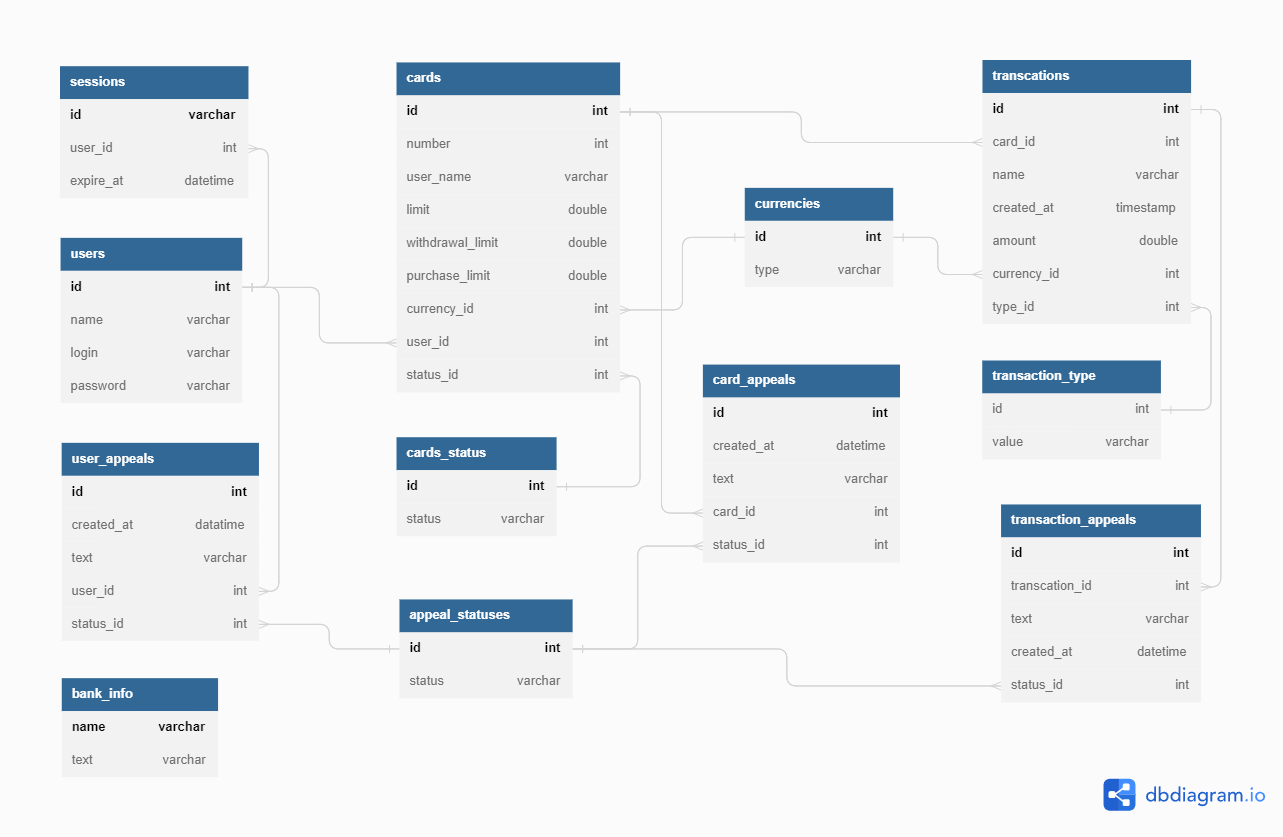
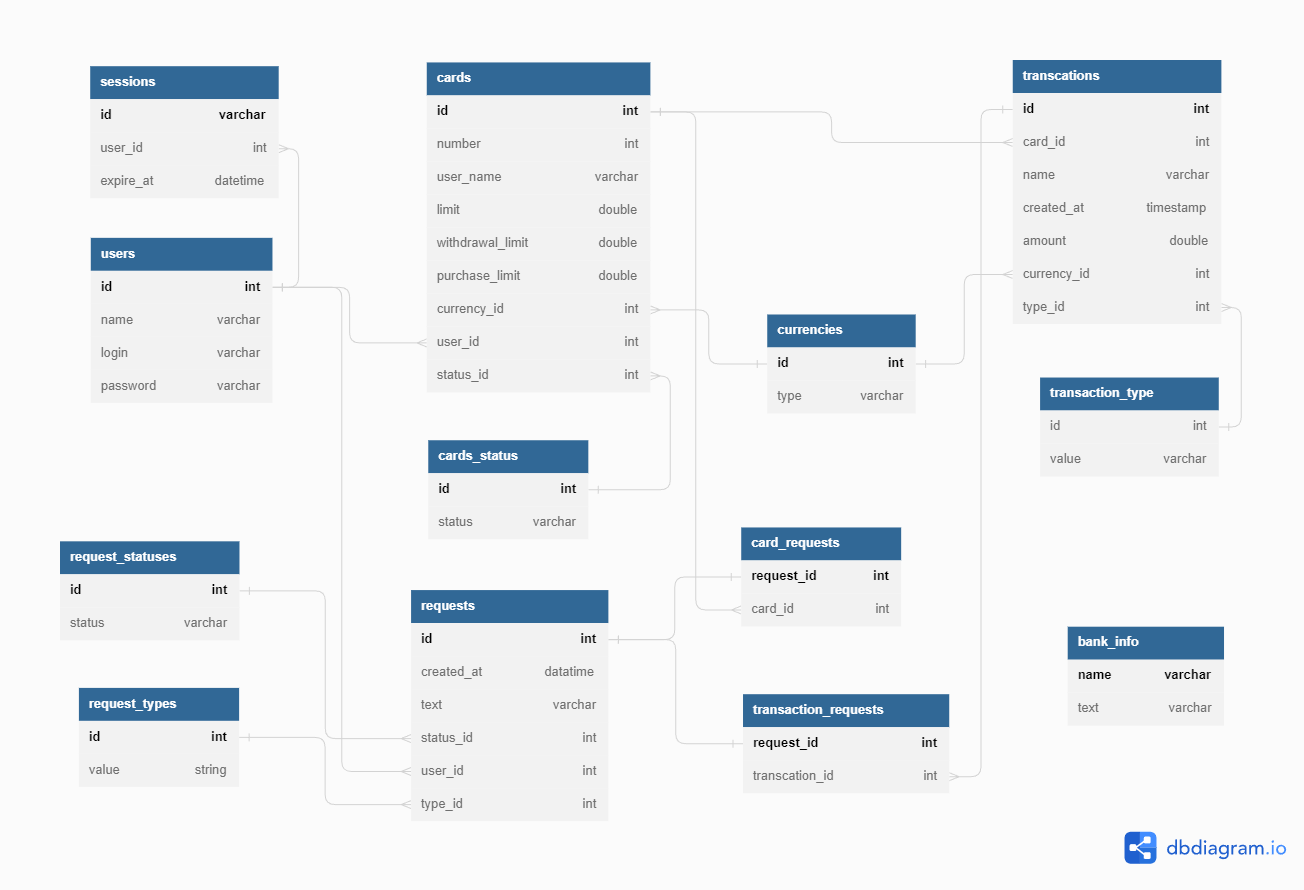
Update db

diff --git a/README.md b/README.md
@@ -20,14 +20,12 @@ https://www.dropbox.com/s/22ps1w1j5uou6rp/sber_corp_proto_v1.1.pdf?dl=0
 
 ![db](img/main_db.png)
 
-Было решено вынести обращения в отдельные сущности:
-- `card_appeals`: обращения по картам;
-- `transcation_appeals`: обращения по транзакциям;
-- `user_appeals`: обращения поступаемые от пользователя и не имеющие точной привязки к какому-то типу обращений.
+Было решено для сущности обращений реализовать мастер таблицу `requests` и 2 таблицы `transaction_reqests` и `card_requests` хранящих дополнительную связность для различных типов обращений:
+- по карте;
+- по транзакции.
+- общие (когда нельзя однозначно определить к какому из выше перечисленных типов можно отнести обращение, в данном случае никаких дополнительных связностей не нужно иметь, поэтому такие обращения могут спокойно храниться в мастер таблице).
 
-Считаю, что данная реализация осуществляет группировку обращений по типу, с сохранением особенностей обращения (связаности с картой или транзакций), при этом сохраняет нормализацию БД.
-
-Для таблиц `cards` и `transactions` было решено вынести тип валюты в отдельную таблицу, а все данные связанные с цифрами хранить в вещественных числах взамен реализации, где эти данные хранились бы как строковые литералы. Это позволит при расширении функционала, такого как добавление возможности совершать операции в приложении, избежать дополнительных изменений в структуре БД.
+Для таблиц `cards` и `transactions` было решено вынести тип валюты в отдельную таблицу, а все данные связанные с цифрами хранить в вещественных числах в отличии от реализации, где эти данные хранились бы как строковые литералы. Это позволит при расширении функционала, такого как добавление возможности совершать операции в приложении, избежать дополнительных изменений в структуре БД.
 
 Также в таблице `cards` есть поле `user_name` вместо ссылки на пользователя. Это было сделано, так как в реквизитах карты может быть различное написание ФИО владельца. (Личный кейс, у меня 2 карты с разным написанием имени Nikolai, Nikolay)
 
@@ -35,7 +33,13 @@ https://www.dropbox.com/s/22ps1w1j5uou6rp/sber_corp_proto_v1.1.pdf?dl=0
 ```
 Действуют ограничения на снятие наличных по корпоративным картам: 170 000 рублей в день или 5 000 000 рублей в месяц.
 ```
-Конечно лучшим вариантом было бы воспользоваться сервисом наподобие Firebase, но так как взаимодействие сервиса происходит посредством обновления данных в бд, считаю что предоставление возможности обновлять информацию в реальном времени более релевантно также через бд.
+Конечно лучшим вариантом было бы воспользоваться сервисом наподобие Firebase, но так как взаимодействие с сервисом извне происходит посредством обновления данных в бд, считаю что предоставление возможности обновлять информацию в реальном времени более релевантно также через бд.
+
+**Дополнительная индексация**
+Предлагаю: 
+- Для таблицы `cards` добавить индекс для поля `user_id`;
+- Для таблицы `transactions` добавить индекс для поля `card_id`;
+- Для таблицы `requests` добавить индекс для поля `user_id`;
 
 ### **БД для статистики**
 
@@ -425,11 +429,11 @@ curl -X 'GET' \
 }
 ```
 
-### **Appeals**
-#### **[GET] APPEALS**
+### **Requests**
+#### **[GET] REQUESTS**
 ##### **URL:** 
 ```
-https://{host}/api/{api_version}/users/{user_id}/appeals
+https://{host}/api/{api_version}/users/{user_id}/requests
 ```
 
 ##### **Описание:**
@@ -441,7 +445,7 @@ https://{host}/api/{api_version}/users/{user_id}/appeals
 ##### **Пример использования:**
 ```
 curl -X 'GET' \
-  'https://{host}/api/{api_version}/users/{user_id}/appeals' \
+  'https://{host}/api/{api_version}/users/{user_id}/requests' \
   -H 'accept: application/json' \
   -H 'access_token: {user_access_token} 
 ```
@@ -453,7 +457,7 @@ curl -X 'GET' \
   "status_code": int,
   "response":
   {
-    "user appeals":
+    "user requests":
     [ 
       {
         "id": int,
@@ -469,7 +473,7 @@ curl -X 'GET' \
         "status": string
       }
     ],
-    "card appeals":
+    "card requests":
     [
       {
         "id": int,
@@ -487,7 +491,7 @@ curl -X 'GET' \
         "status": string
       }
     ],
-    "transaction appeals":
+    "transaction requests":
     [
       {
         "id": int,
@@ -509,10 +513,10 @@ curl -X 'GET' \
 }
 ```
 
-#### **[POST] ADD USER APPEAL**
+#### **[POST] ADD USER REQUEST**
 ##### **URL:** 
 ```
-https://{host}/api/{api_version}/users/{user_id}/appeals
+https://{host}/api/{api_version}/users/{user_id}/requests
 ```
 
 ##### **Описание:**
@@ -529,7 +533,7 @@ https://{host}/api/{api_version}/users/{user_id}/appeals
 ##### **Пример использования:**
 ```
 curl -X 'POST' \
-  'https://{host}/api/{api_version}/users/{user_id}/appeals' \
+  'https://{host}/api/{api_version}/users/{user_id}/requests' \
   -H 'accept: application/json' \
   -H 'Content-Type: application/json' \
   -H 'access_token: {user_access_token} \
@@ -553,10 +557,10 @@ curl -X 'POST' \
 }
 ```
 
-#### **[POST] ADD CARD APPEAL**
+#### **[POST] ADD CARD REQUEST**
 ##### **URL:** 
 ```
-https://{host}/api/{api_version}/users/{user_id}/cards/{card_id}/appeals
+https://{host}/api/{api_version}/users/{user_id}/cards/{card_id}/requests
 ```
 
 ##### **Описание:**
@@ -573,7 +577,7 @@ https://{host}/api/{api_version}/users/{user_id}/cards/{card_id}/appeals
 ##### **Пример использования:**
 ```
 curl -X 'POST' \
-  'https://{host}/api/{api_version}/users/{user_id}/cards/{card_id}/appeals' \
+  'https://{host}/api/{api_version}/users/{user_id}/cards/{card_id}/requests' \
   -H 'accept: application/json' \
   -H 'Content-Type: application/json' \
   -H 'access_token: {user_access_token} \
@@ -598,10 +602,10 @@ curl -X 'POST' \
 }
 ```
 
-#### **[POST] ADD TRANSACTION APPEAL**
+#### **[POST] ADD TRANSACTION REQUEST**
 ##### **URL:** 
 ```
-https://{host}/api/{api_version}/users/{user_id}/cards/{card_id}/transactions/{transaction_id}/appeals
+https://{host}/api/{api_version}/users/{user_id}/cards/{card_id}/transactions/{transaction_id}/requests
 ```
 
 ##### **Описание:**
@@ -618,7 +622,7 @@ https://{host}/api/{api_version}/users/{user_id}/cards/{card_id}/transactions/{t
 ##### **Пример использования:**
 ```
 curl -X 'POST' \
-  'https://{host}/api/{api_version}/users/{user_id}/cards/{card_id}/transactions/{transaction_id}/appeals' \
+  'https://{host}/api/{api_version}/users/{user_id}/cards/{card_id}/transactions/{transaction_id}/requests' \
   -H 'accept: application/json' \
   -H 'Content-Type: application/json' \
   -H 'access_token: {user_access_token} \
